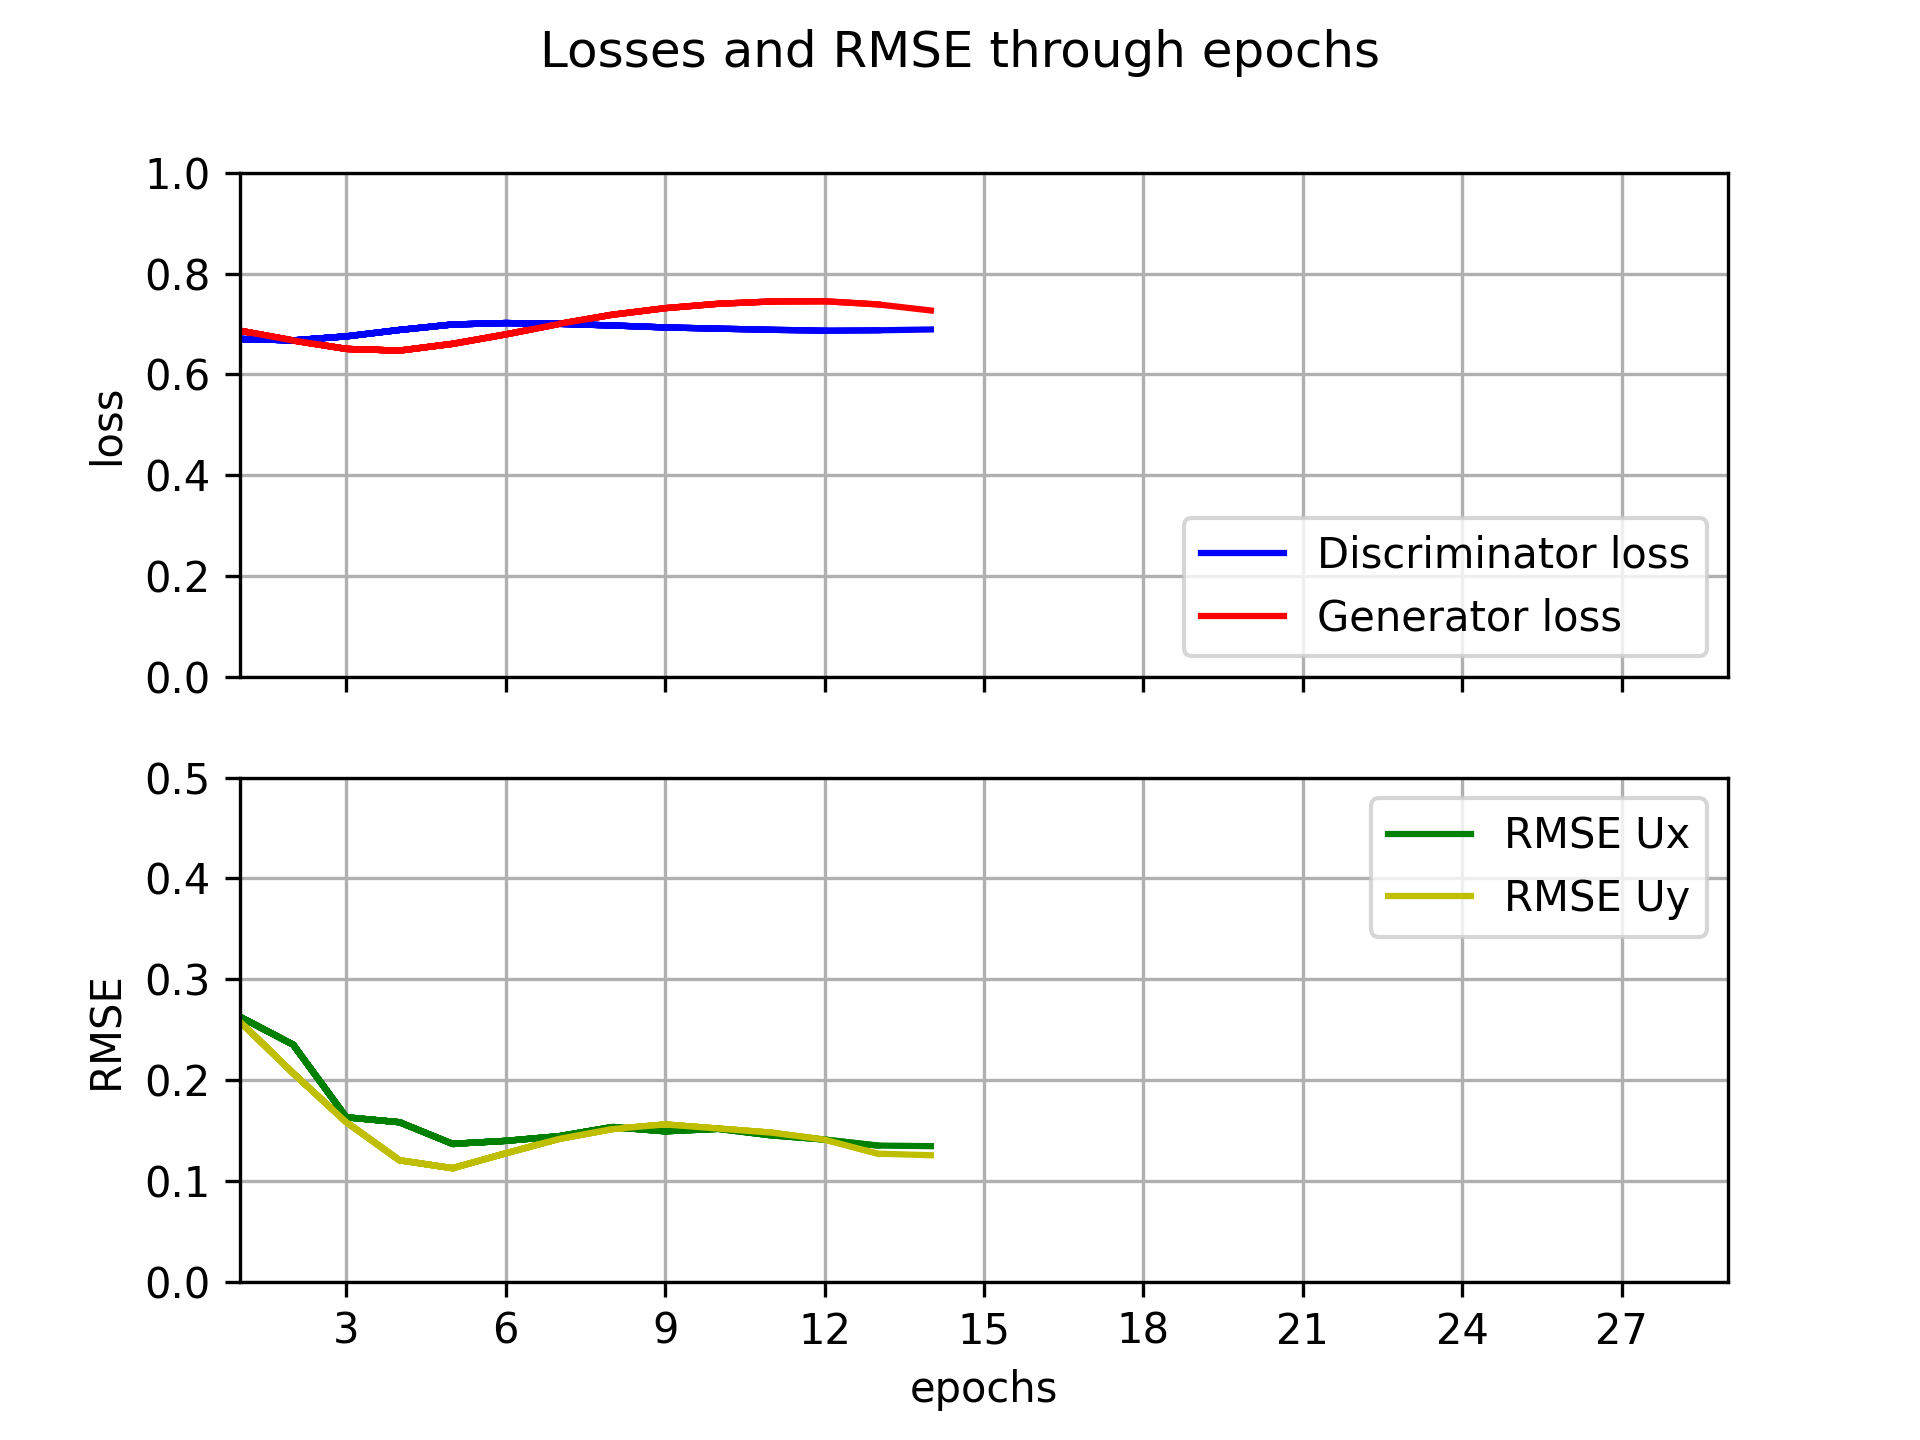
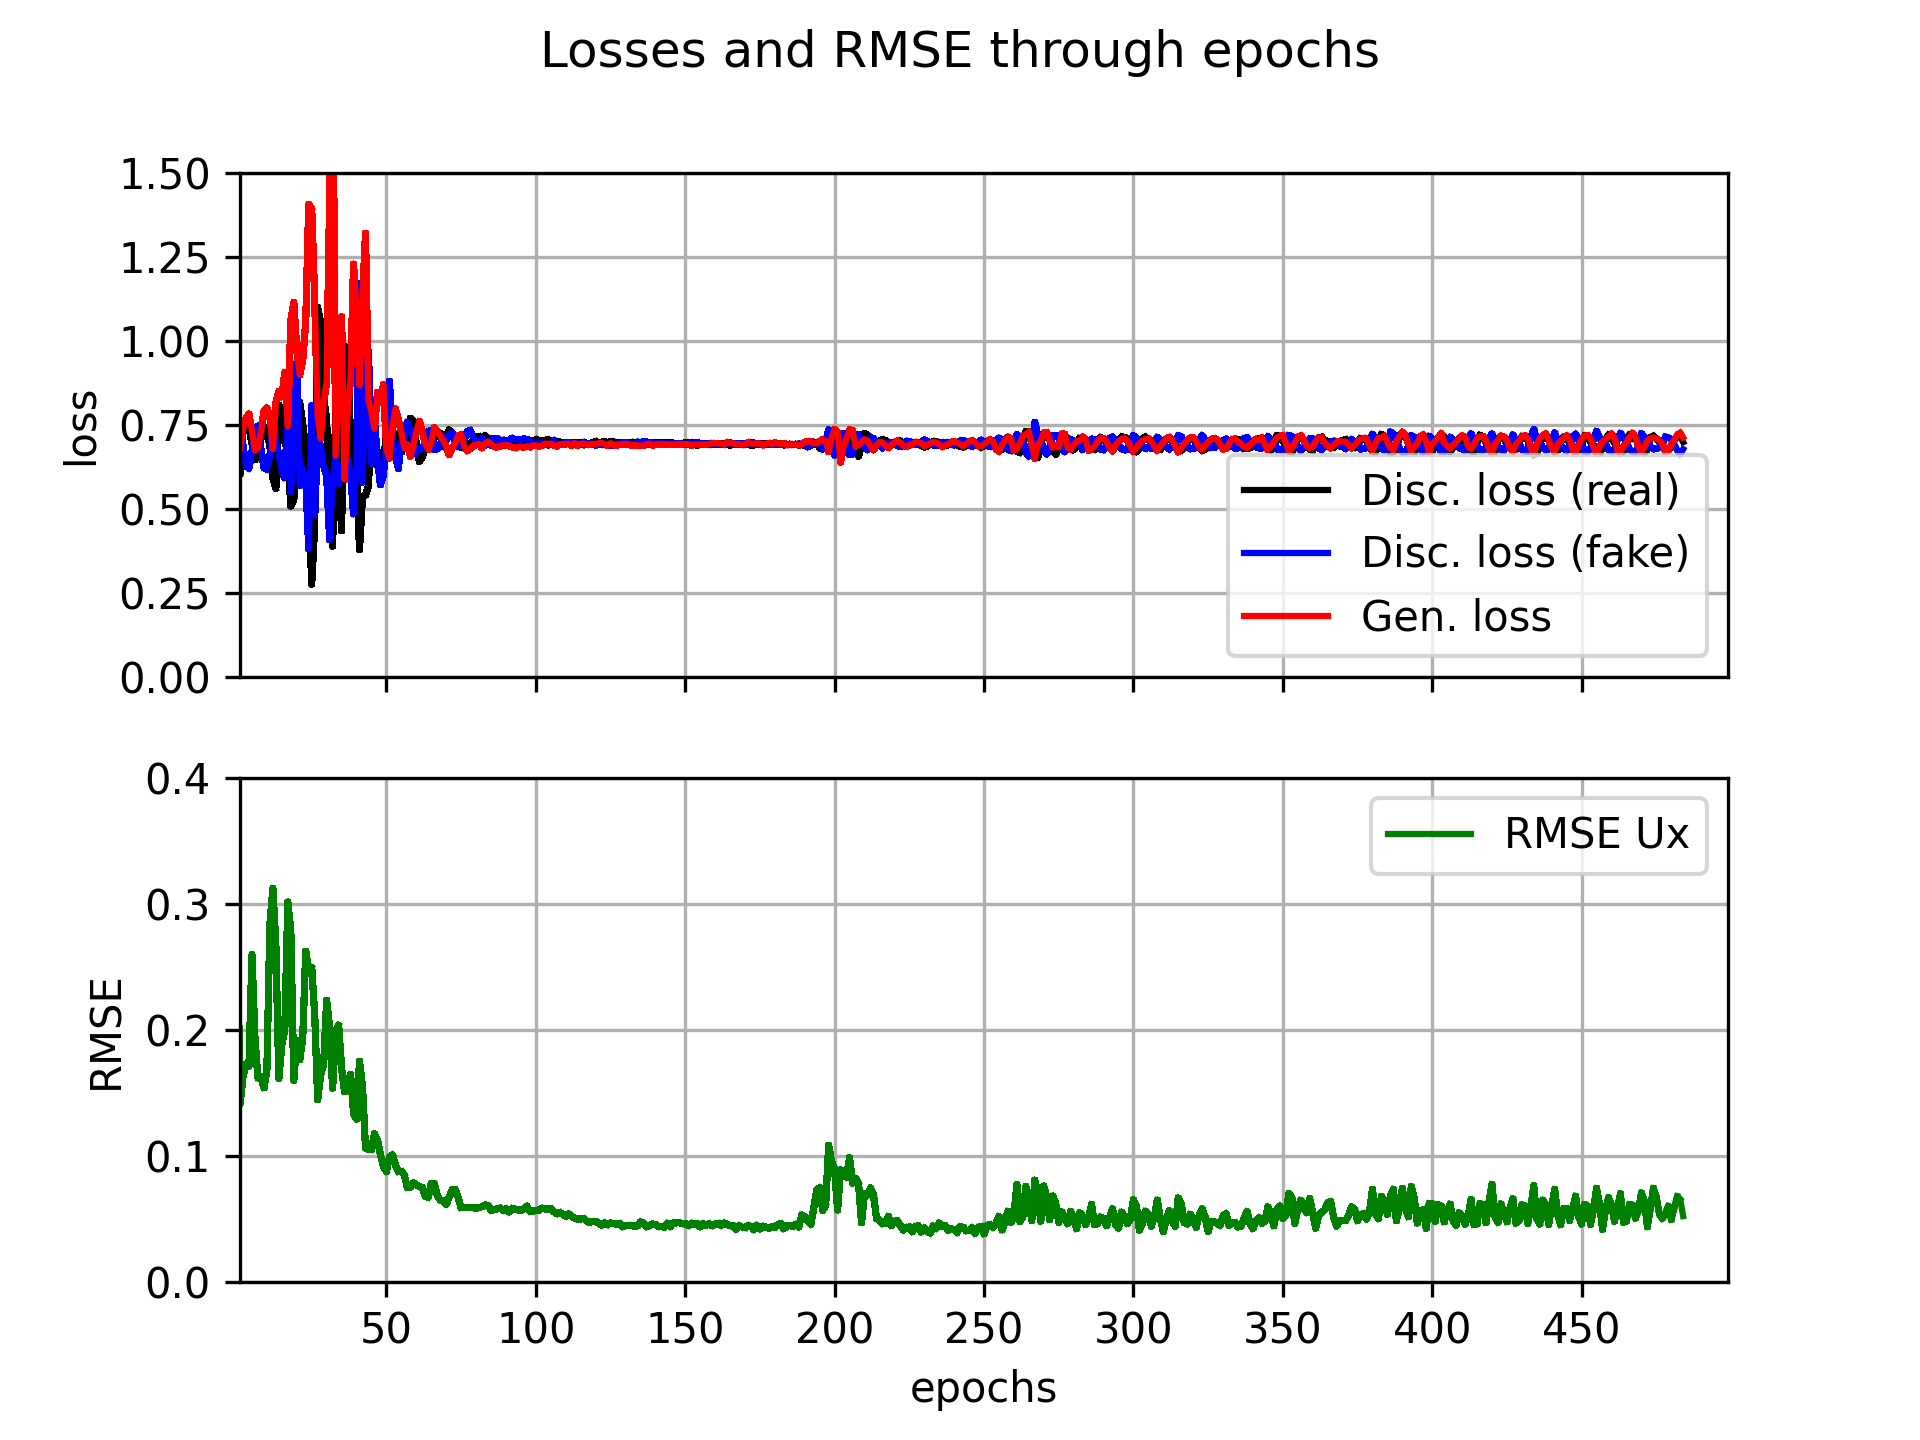
training can be done with 1 channel, better results obtained.

diff --git a/src/train.py b/src/train.py
@@ -14,18 +14,16 @@ import time
 
 # Third party modules
 from sklearn.model_selection import KFold
-import numpy as np
-from matplotlib import cm, pyplot as plt
-from mpl_toolkits.axes_grid1 import ImageGrid, make_axes_locatable
+from matplotlib import pyplot as plt
+from mpl_toolkits.axes_grid1 import ImageGrid
 import torch
 from torch.utils.data import DataLoader, SubsetRandomSampler
-from torchvision.utils import save_image
 import yaml
 
 # Local modules
 from data.utils import load_prepare_dataset, ProcessedDataset
 from models.model_01 import Generator, Discriminator, Embedding, initialize_weights
-from visualization.utils import plot_metrics, calc_mse
+from visualization.utils import plot_metrics, calc_mse, plot_flow_field_comparison
 
 root_dir = os.path.join('data', 'preprocessed', 'train')
 
@@ -63,13 +61,17 @@ def train():
     dataset = ProcessedDataset(images, inflow)
 
     # Initialize models and send them to device
-    print('Initializing Embedding, Generator and Discriminator')
     # Embedding takes (C, H)
     emb = Embedding(CHANNELS, images.shape[-1]).to(device)
     # Generator takes (C, H, f_g)
     gen = Generator(CHANNELS, config['data']['final_size'][0], config['model']['f_g']).to(device)
-    # Discriminator takes (C) (4 channels, Ux, Uy, Ux_in, Uy_in)
-    disc = Discriminator(CHANNELS+2, config['model']['f_d']).to(device)
+    # Discriminator takes (C*2, f_d) (4 channels, Ux, Uy, Ux_in, Uy_in)
+    disc = Discriminator(CHANNELS*2, config['model']['f_d']).to(device)
+    print(
+        f"Initializing Embedding with {sum(p.numel() for p in emb.parameters())} params\n"
+        f"Initializing Generator with {sum(p.numel() for p in gen.parameters())} params\n"
+        f"Initializing Discriminator with {sum(p.numel() for p in disc.parameters())} params\n"
+        )
 
     # Define losses
     criterion = torch.nn.BCELoss()
@@ -88,8 +90,8 @@ def train():
 
     # Iterate over kfolds
     rmse_folds = []
+    rmse_folds_sum = [0, 0]
     for fold, (train_idx, val_idx) in enumerate(kfold.split(images)):
-
 
         # Load flow field data
         train_subsampler = SubsetRandomSampler(train_idx)
@@ -134,7 +136,6 @@ def train():
 
                 # noise = torch.randn((config['train']['batch_size'], 64, 8, 8)).to(device)
 
-                # Initialize weights of gen
                 torch.autograd.set_detect_anomaly(False)
                 # Generate flow field prediction (fake image) with training data in mini batch
                 fake = gen(label) # gen generates flow field image from label inflow velocity
@@ -157,13 +158,11 @@ def train():
                 loss_g.backward() # Backward pass
                 opt_gen.step() # Update weights
 
-
             # Test model on validation data (generate flow field prediction with validation data)
             gen.eval()
             with torch.no_grad():
                 rmse = [0, 0]
                 # Iterate over minibatches of val data
-                print()
                 for idx, (images, labels) in enumerate(valloader):
                     # Generate images for this minibatch
                     images = images.float().to(device)
@@ -172,80 +171,56 @@ def train():
                     # Iterate over all images in this batch
                     for i, (image, im_gen) in enumerate(zip(images, ims_gen)):
                         rmse[0] += calc_mse(image[0], im_gen[0])
-                        rmse[1] += calc_mse(image[1], im_gen[1])
+                        if CHANNELS > 1:
+                            rmse[1] += calc_mse(image[1], im_gen[1])
                     rmse[0] /= len(images)
                     rmse[1] /= len(images)
                 rmse[0] /= len(valloader)
                 rmse[1] /= len(valloader)
                 rmse[0] = torch.sqrt(rmse[0]).cpu().detach().numpy()
-                rmse[1] = torch.sqrt(rmse[1]).cpu().detach().numpy()
+                if CHANNELS > 1:
+                    rmse[1] = torch.sqrt(rmse[1]).cpu().detach().numpy()
+            gen.train()
 
-
-
-                # Plot figure with images real and fake
-                grid_ims = [image[0], im_gen[0], im_gen[0]-image[0],image[1], im_gen[1], im_gen[1]-image[1]]
-                if epoch == 0:
-                    fig_im = plt.figure(dpi=300)
-                    grid = ImageGrid(fig_im, 111, nrows_ncols=(2,3), axes_pad=0.1, share_all='True', cbar_location='right', cbar_mode='each')
-                for c, (ax, cax, im) in enumerate(zip(grid, grid.cbar_axes, grid_ims)):
-                    
-
-                    if c < 3:
-                        im = im * (CLIM_UX[1]-CLIM_UX[0]) + CLIM_UX[0]
-                        ax.set_title('Ux')
-                        vmin = CLIM_UX[0]; vmax = CLIM_UX[1]
-                    else:
-                        im = im * (CLIM_UY[1]-CLIM_UY[0]) + CLIM_UY[0]
-                        ax.set_title('Uy')
-                        vmin = CLIM_UY[0]; vmax = CLIM_UY[1]
-
-                    
-                    im = ax.imshow(
-                        im.cpu(),
-                        cmap=cm.coolwarm, 
-                        interpolation='none',
-                        vmin=vmin, vmax=vmax)
-
-                    cb = cax.colorbar(im)
-                    # if epoch == 0:
-                    #     if c == 0:
-                    #         ax.set_ylabel("$Ux$")
-                    #     elif c == 3:
-                    #         ax.set_ylabel("$Uy$")
-                # divider = make_axes_locatable(ax)
-                # cax = divider.append_axes('right', size='5%', pad=0.05)
-                # fig_im.colorbar(im, cax=cax, orientation='vertical')
-
-
-                fig_im.suptitle(f"RMSE_Ux: {torch.sqrt(calc_mse(image[0], im_gen[0])):.3f}, RMSE_Uy: {torch.sqrt(calc_mse(image[1], im_gen[1])):.3f}")
-                fig_im.savefig(os.path.join('figures', 'image_comparison.png'), dpi=300)
-                
-                        
             # Print progress every epoch
             print(
                 f"Epoch [{epoch+1:03d}/{NUM_EPOCHS:03d} - "
                 f"Loss D_real: {loss_real:.3f}, Loss D_fake: {loss_fake:.3f}"
                 f", Loss G: {loss_g:.3f}, RMSE Val.: ({rmse[0]:.3f}, {rmse[1]:.3f})]"
                 )
-            # Plot loss
+                        
             if epoch == 0:
+                fig_im = plt.figure(dpi=300) # Initialize figure for flow field comparison
+                grid = ImageGrid( # Create grid of images
+                    fig_im, 
+                    111, 
+                    nrows_ncols=(2,3) if CHANNELS == 2 else (1,3), 
+                    axes_pad=0.15, 
+                    share_all='True', 
+                    cbar_location='right', 
+                    cbar_mode='edge')
                 # Initialize figure for loss and rmse evolution
                 fig, axs = plt.subplots(2,1,dpi=300)
                 # Initialize list containing metrics
-                loss_disc = []; loss_gen = []
+                loss_disc_fake = []; loss_disc_real = []; loss_gen = []
                 rmse_evol_ux = []; rmse_evol_uy = []
-            # Plot metrics
-            plot_metrics(loss_disc, loss_gen, loss_d, loss_g, epoch, fig, axs, NUM_EPOCHS, rmse, rmse_evol_ux, rmse_evol_uy)
 
-            
+            # Plot metrics and flow field comparison
+            plot_metrics(loss_disc_real, loss_disc_fake, loss_real, loss_fake, loss_gen, loss_g, epoch, fig, axs, NUM_EPOCHS, rmse, rmse_evol_ux, rmse_evol_uy)
+            plot_flow_field_comparison(fig_im, grid, image, im_gen)
 
         # Append RMSE to list of RMSE per fold
         rmse_folds.append(rmse)
         # Average RMSE of all folds
-        print(f"Average RMSE of fold {fold+1}/{n_splits}: {rmse_folds[fold]}")
-        gen.train()
+        print(f"\nAverage RMSE of fold {fold+1}/{n_splits}: ({rmse_folds[fold][0]:.2f}, {rmse_folds[fold][1]:.2f})")
 
-    print(f"Average RMSE of all folds: {sum(rmse_folds)/len(rmse_folds):.2f}")
+        rmse_folds_sum[0] += rmse_folds[fold][0]
+        rmse_folds_sum[1] += rmse_folds[fold][1]
+
+    print(
+        f"\nAverage RMSE of all folds: "
+        f"({rmse_folds_sum[0]/len(rmse_folds):.2f}, {rmse_folds_sum[1]/len(rmse_folds):.2f})")
+
 
             # Train discriminator on real [U, \mu] and generated [U_gen, \mu] data by feeding 
 

diff --git a/src/visualization/utils.py b/src/visualization/utils.py
@@ -12,7 +12,8 @@ import os
 
 import numpy as np
 from matplotlib.ticker import MaxNLocator
-from torch import sum
+from matplotlib import cm
+from torch import sum, sqrt
 import yaml
 
 # Load config file
@@ -20,21 +21,28 @@ with open('config.yaml') as file:
     config = yaml.safe_load(file)
 
 SIZE_LINEAR = config['data']['final_size'][0]*config['data']['final_size'][1]
+CLIM_UX = config['data']['figures']['clim_ux']
+CLIM_UY = config['data']['figures']['clim_uy']
+CHANNELS = config['data']['channels']
 
-def plot_metrics(loss_disc, loss_gen, loss_d, loss_g, epoch, fig, axs, num_epochs, rmse, rmse_evol_ux, rmse_evol_uy):
+def plot_metrics(loss_disc_real, loss_disc_fake, loss_real, loss_fake, loss_gen, loss_g, epoch, fig, axs, num_epochs, rmse, rmse_evol_ux, rmse_evol_uy):
     # Append current epoch loss to list of losses
-    loss_disc.append(float(loss_d.detach().cpu()))
+    loss_disc_real.append(float(loss_real.detach().cpu()))
+    loss_disc_fake.append(float(loss_fake.detach().cpu()))
     loss_gen.append(float(loss_g.detach().cpu()))
     rmse_evol_ux.append(float(rmse[0]))
-    rmse_evol_uy.append(float(rmse[1]))
+    if CHANNELS > 1:
+        rmse_evol_uy.append(float(rmse[1]))
     # Plot loss
     x = np.arange(0, epoch+1)
 
-    axs[0].plot(x, loss_disc, label='Discriminator loss', color='b')
-    axs[0].plot(x, loss_gen, label='Generator loss', color='r')
+    axs[0].plot(x, loss_disc_real, label='Disc. loss (real)', color='k')
+    axs[0].plot(x, loss_disc_fake, label='Disc. loss (fake)', color='b')
+    axs[0].plot(x, loss_gen, label='Gen. loss', color='r')
 
     axs[1].plot(x, rmse_evol_ux, label='RMSE Ux', color='g')
-    axs[1].plot(x, rmse_evol_uy, label='RMSE Uy', color='y')
+    if CHANNELS > 1:
+        axs[1].plot(x, rmse_evol_uy, label='RMSE Uy', color='y')
     
     axs[1].set(xlabel='epochs')
     axs[0].set(ylabel='loss')
@@ -42,8 +50,8 @@ def plot_metrics(loss_disc, loss_gen, loss_d, loss_g, epoch, fig, axs, num_epoch
     
     axs[0].xaxis.set_ticklabels([])
 
-    axs[0].set_ylim(0, 1)
-    axs[1].set_ylim(0, 0.5)
+    axs[0].set_ylim(0, 1.5)
+    axs[1].set_ylim(0, 0.4)
 
     for i, ax in enumerate(axs):
         if epoch == 0:
@@ -57,3 +65,63 @@ def plot_metrics(loss_disc, loss_gen, loss_d, loss_g, epoch, fig, axs, num_epoch
 
 def calc_mse(image_real, image_fake):
     return sum((image_fake-image_real)**2)/SIZE_LINEAR
+
+def plot_flow_field_comparison(fig_im, grid, image, im_gen):
+    # Plot figure with images real and fake
+    if CHANNELS == 1:
+        grid_ims = [image[0], im_gen[0], im_gen[0]-image[0]]
+    else:
+        grid_ims = [image[0], im_gen[0], im_gen[0]-image[0],image[1], im_gen[1], im_gen[1]-image[1]]
+
+    # Iterate over images in grid
+    for c, (ax, im) in enumerate(zip(grid, grid_ims)):
+        
+        # Determine the image vmin and vmax
+        if c < 3:
+            im = im * (CLIM_UX[1]-CLIM_UX[0]) + CLIM_UX[0]
+            vmin = CLIM_UX[0]; vmax = CLIM_UX[1]
+        else:
+            im = im * (CLIM_UY[1]-CLIM_UY[0]) + CLIM_UY[0]
+            vmin = CLIM_UY[0]; vmax = CLIM_UY[1]
+
+        # Create image
+        im = ax.imshow(
+            im.cpu(),
+            cmap=cm.coolwarm, 
+            interpolation='none',
+            vmin=vmin, vmax=vmax)
+
+        # Hide the axis
+        ax.get_xaxis().set_visible(False)
+        ax.get_yaxis().set_visible(False)
+
+        # Add titles, labels and colorbars
+        if c == 0:
+            ax.get_yaxis().set_visible(True)
+            ax.set_ylabel("$Ux$")
+            ax.set_title("U$_{real}$")
+            ax.set_yticks([])
+        elif c == 1:
+            ax.set_title("U$_{fake}$")
+        elif c == 2:
+            ax.set_title("U$_{fake}$ - U$_{real}$")
+            cb = grid.cbar_axes[0].colorbar(im)
+            cb.set_label("[ms$^{-1}$]", rotation=270, labelpad=10)
+        elif c == 3:
+            ax.get_yaxis().set_visible(True)
+            ax.set_ylabel("$Uy$")
+            ax.set_yticks([])
+        elif c == 5:
+            cb = grid.cbar_axes[1].colorbar(im)
+            cb.set_label("[ms$^{-1}$]", rotation=270, labelpad=18)
+
+    # Add suptitle
+    fig_im.suptitle(
+        f"Flow field comparison:\n"
+        f"RMSE: ({sqrt(calc_mse(image[0], im_gen[0])):.3f}, {sqrt(calc_mse(image[1], im_gen[1])) if CHANNELS == 2 else 0.0:.3f})"
+        )
+
+    # Save figure
+    fig_im.savefig(os.path.join('figures', 'image_comparison.png'), dpi=300)
+
+    return fig_im

diff --git a/src/models/model_01.py b/src/models/model_01.py
@@ -16,6 +16,8 @@ import yaml
 with open('config.yaml') as file:
     config = yaml.safe_load(file)
 
+CHANNELS = config['data']['channels']
+
 class Embedding(nn.Module):
     def __init__(self, channels, label_dim):
         super(Embedding, self).__init__()
@@ -54,9 +56,9 @@ class Generator(nn.Module):
         super(Generator, self).__init__()
         self.height = height
         self.channels = channels
-        self.linear = nn.Linear(height, height*32)
+        self.linear = nn.Linear(height, height*64//CHANNELS)
         self.gen = nn.Sequential(
-            # Input: 
+            # Input: (N, 64, 8, 8)
             nn.ConvTranspose2d(height, features_g*16, 4, 2, 1),  # (N,f_g*16,16,16)
             nn.LeakyReLU(),
             nn.ConvTranspose2d(features_g*16, features_g*8, 4, 2, 1), # (N,f_g*8,32,32)
@@ -91,10 +93,14 @@ def test():
     print(f"Cat shape: {x_emb.shape}")
     print(f"Discriminator shape: {disc(x_emb).shape}")
 
-    gen = Generator(C, H, 8)
+    gen = Generator(C, H, 16)
     initialize_weights(gen)
     # Generator receives (N, C, H) flow parameter (mu)
     print(f"Generator shape: {gen(mu).shape}")
+
+    print(sum(p.numel() for p in gen.parameters()))
+    print(sum(p.numel() for p in disc.parameters()))
+    print(sum(p.numel() for p in emb.parameters()))
 
 
 if __name__ == "__main__":

diff --git a/src/data/utils.py b/src/data/utils.py
@@ -23,6 +23,8 @@ import yaml
 with open('config.yaml') as file:
     config = yaml.safe_load(file)
 
+CHANNELS = config['data']['channels']
+
 class WF_Dataset(Dataset):
     def __init__(self, root_dir):
         super(WF_Dataset, self).__init__()
@@ -101,6 +103,10 @@ def load_prepare_dataset(root_dir):
     # Transforms array to tensors (adjust the shape to: NCHW)
     inflow = from_numpy(np.moveaxis(inflow, -1, 1))
     images = from_numpy(np.moveaxis(images, -1, 1))
+
+    # Adjust tensors to number of channels
+    inflow = inflow[:, 0:CHANNELS, :]
+    images = images[:, 0:CHANNELS, :, :]
 
     return images, inflow
 
